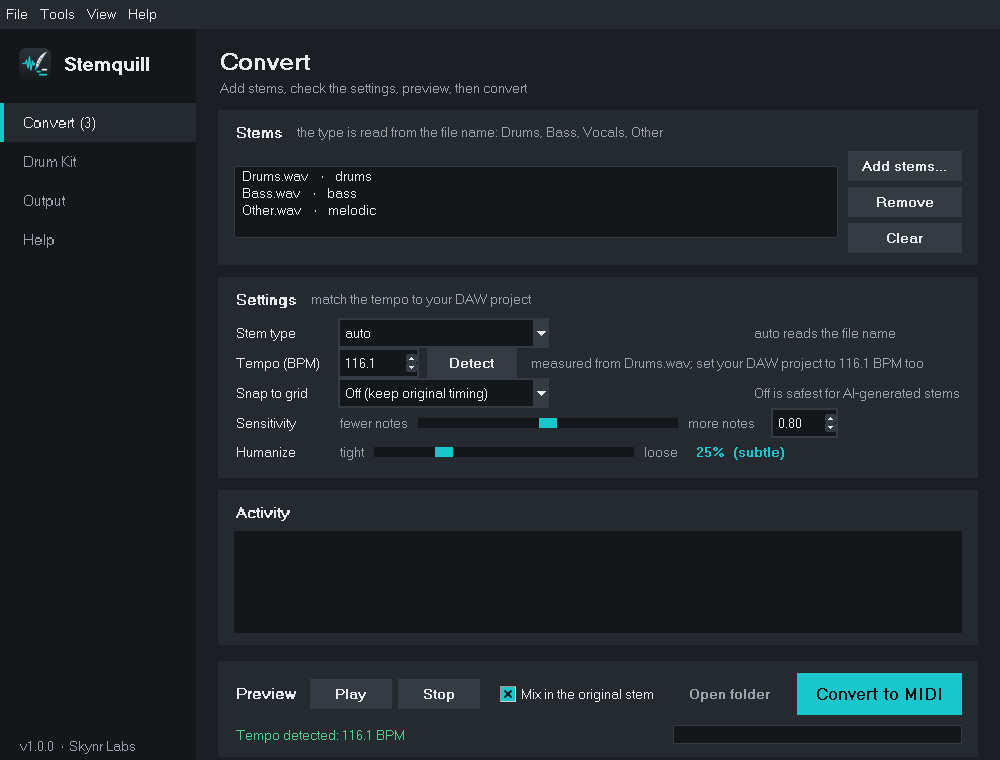
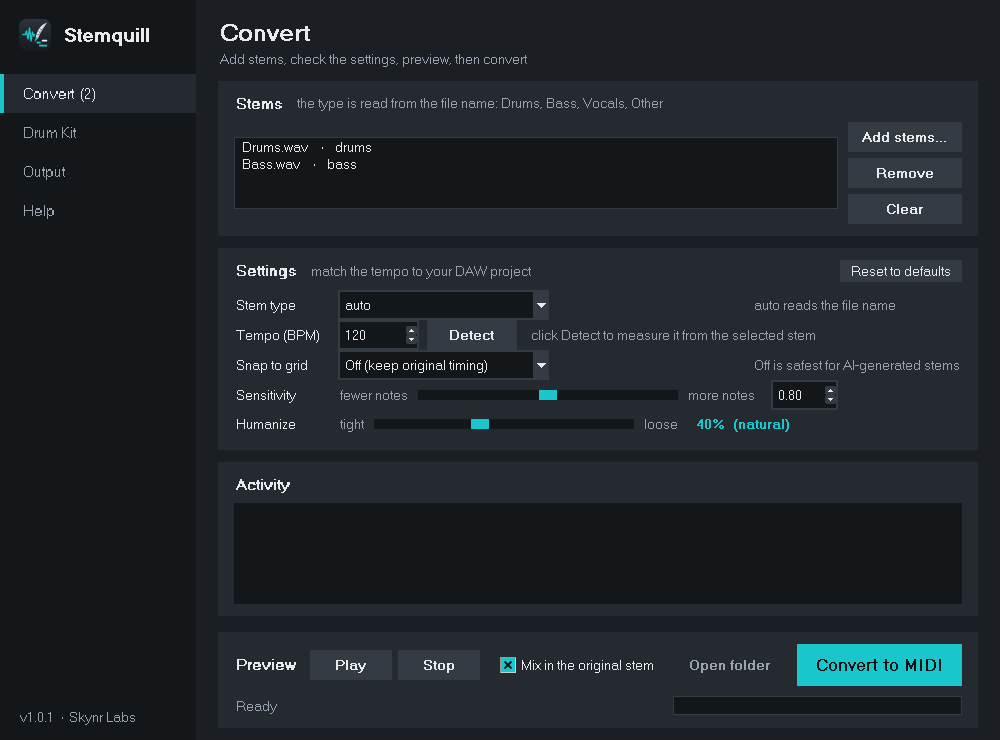
Remove the duplicate menu bar; sidebar is the only navigation
- Reset to defaults moves onto the Settings card
- Keyboard shortcuts stay (gui/menus.py -> gui/shortcuts.py)
- Windows: use the .ico for the title bar so the Stemquill icon shows
- Version 1.0.1

Claude-Session: https://claude.ai/code/session_01JiQM3hLKf5xq6onPfzHo7P

diff --git a/stemquill/gui/app.py b/stemquill/gui/app.py
@@ -11,8 +11,8 @@ from ..config import ASSETS_DIR, load_settings, save_settings
 from .action_bar import ActionBar
 from .dialogs import show_about
 from .journeys import ConvertJourney, PreviewJourney, TempoJourney
-from .menus import bind_shortcuts, build_menu_bar
 from .pages import PAGES, ConvertPage, DrumKitPage, HelpPage, OutputPage
+from .shortcuts import bind_shortcuts
 from .sidebar import Sidebar
 from .theme import THEME, apply_styles, make_fonts
 
@@ -34,7 +34,6 @@ class StemquillApp:
         self.tempo = TempoJourney(self)
 
         self._build_layout()
-        build_menu_bar(self)
         bind_shortcuts(self)
         self._wire_buttons()
         root.protocol("WM_DELETE_WINDOW", self.quit)
@@ -63,7 +62,8 @@ class StemquillApp:
             images["app"] = tk.PhotoImage(file=os.path.join(ASSETS_DIR, "icon.png"))
             images["small"] = tk.PhotoImage(file=os.path.join(ASSETS_DIR, "icon-32.png"))
             images["about"] = tk.PhotoImage(file=os.path.join(ASSETS_DIR, "icon-64.png"))
-            self.root.iconphoto(True, images["app"])
+            if not IS_WINDOWS:  # Windows uses the .ico set above, which looks sharper in the title bar
+                self.root.iconphoto(True, images["app"])
         except tk.TclError:
             pass
         return images
@@ -92,7 +92,7 @@ class StemquillApp:
         box.grid(row=1, column=0, sticky="nsew")
         box.columnconfigure(0, weight=1)
         box.rowconfigure(0, weight=1)
-        self.convert_page = ConvertPage(box, self.fonts, self._on_stems_changed)
+        self.convert_page = ConvertPage(box, self.fonts, self._on_stems_changed, self.reset_settings)
         self.drum_page = DrumKitPage(box)
         self.output_page = OutputPage(box)
         self.help_page = HelpPage(box, self.fonts, self.about)

diff --git a/stemquill/gui/pages/convert.py b/stemquill/gui/pages/convert.py
@@ -17,8 +17,9 @@ TEMPO_HINT = "click Detect to measure it from the selected stem"
 
 
 class ConvertPage(ttk.Frame):
-    def __init__(self, parent, fonts, on_stems_changed):
+    def __init__(self, parent, fonts, on_stems_changed, on_reset):
         super().__init__(parent)
+        self.on_reset = on_reset
         self.columnconfigure(0, weight=1)
         self.on_stems_changed = on_stems_changed
         self.files = []
@@ -87,6 +88,8 @@ class ConvertPage(ttk.Frame):
     # ---- settings
     def _build_settings(self):
         c = card(self, 1, "Settings", "match the tempo to your DAW project")
+        ttk.Button(c.top, text="Reset to defaults", style="Small.TButton",
+                   command=lambda: self.on_reset()).pack(side="right")
 
         def row_label(r, text, hint=None):
             ttk.Label(c, text=text, style="Card.TLabel").grid(row=r, column=0, sticky="w", pady=4, padx=(0, 16))

diff --git a/stemquill/gui/shortcuts.py b/stemquill/gui/shortcuts.py
@@ -1,0 +1,16 @@
+"""Keyboard shortcuts. (Navigation lives in the sidebar, so there's no separate menu bar.)"""
+
+from .pages import PAGES
+
+
+def bind_shortcuts(app):
+    root = app.root
+    root.bind_all("<Control-o>", lambda e: app.convert_page.add_files())
+    root.bind_all("<Control-t>", lambda e: app.tempo.start())
+    root.bind_all("<Control-p>", lambda e: app.preview.start())
+    root.bind_all("<Control-Return>", lambda e: app.converter.start())
+    root.bind_all("<Control-q>", lambda e: app.quit())
+    root.bind_all("<Escape>", lambda e: app.preview.stop())
+    root.bind_all("<F1>", lambda e: app.show_page("help"))
+    for i, (key, *_) in enumerate(PAGES, start=1):
+        root.bind_all(f"<Control-Key-{i}>", lambda e, k=key: app.show_page(k))

diff --git a/stemquill/gui/theme.py b/stemquill/gui/theme.py
@@ -44,6 +44,7 @@ def apply_styles(root, F):
                  borderwidth=0, padding=(12, 6))
     st.map("TButton", background=[("active", "#434a53"), ("disabled", T["card"])],
            foreground=[("disabled", T["muted"])])
+    st.configure("Small.TButton", font=F["small"], padding=(10, 3))
     st.configure("Accent.TButton", background=T["accent"], foreground=T["accent_text"], font=F["big"],
                  padding=(18, 10))
     st.map("Accent.TButton", background=[("active", T["accent_hover"]), ("disabled", T["line"])],

diff --git a/stemquill/gui/widgets.py b/stemquill/gui/widgets.py
@@ -18,6 +18,7 @@ def card(parent, row, title, hint=None, grow=False):
     ttk.Label(top, text=title, style="Head.TLabel").pack(side="left")
     if hint:
         ttk.Label(top, text=hint, style="Muted.TLabel").pack(side="left", padx=(10, 0))
+    c.top = top  # the title row, so a page can add a small button on the right
     return c
 
 

diff --git a/stemquill/__init__.py b/stemquill/__init__.py
@@ -1,3 +1,3 @@
 """Stemquill: turn audio stems into MIDI for any DAW."""
 
-__version__ = "1.0.0"
+__version__ = "1.0.1"

diff --git a/README.md b/README.md
@@ -42,7 +42,7 @@ Stemquill is the bridge: audio in, MIDI out, with a preview so you can hear the 
 - 🎛 **Sensitivity control**: slider or typed value to catch quiet notes or cut junk notes
 - 📐 **Snap to grid**: keep the original feel or lock notes to 1/8, 1/16 or triplets
 - 📦 **Batch convert**: drop in a whole set of stems and convert them in one go
-- 🧭 **Clean navigation**: sidebar pages, a full menu bar and keyboard shortcuts
+- 🧭 **Clean navigation**: sidebar pages and keyboard shortcuts
 - 💻 **GUI and command line**: point and click, or script it
 
 ---
@@ -197,7 +197,7 @@ stemquill/
     ├── pages/           Convert, Drum Kit, Output and Help pages
     ├── sidebar.py       Left-hand navigation
     ├── action_bar.py    Play, Stop, Convert and status bar
-    ├── menus.py         Menu bar and keyboard shortcuts
+    ├── shortcuts.py     Keyboard shortcuts
     ├── dialogs.py       About dialog
     ├── widgets.py       Shared building blocks
     └── theme.py         Colours, fonts and styles
